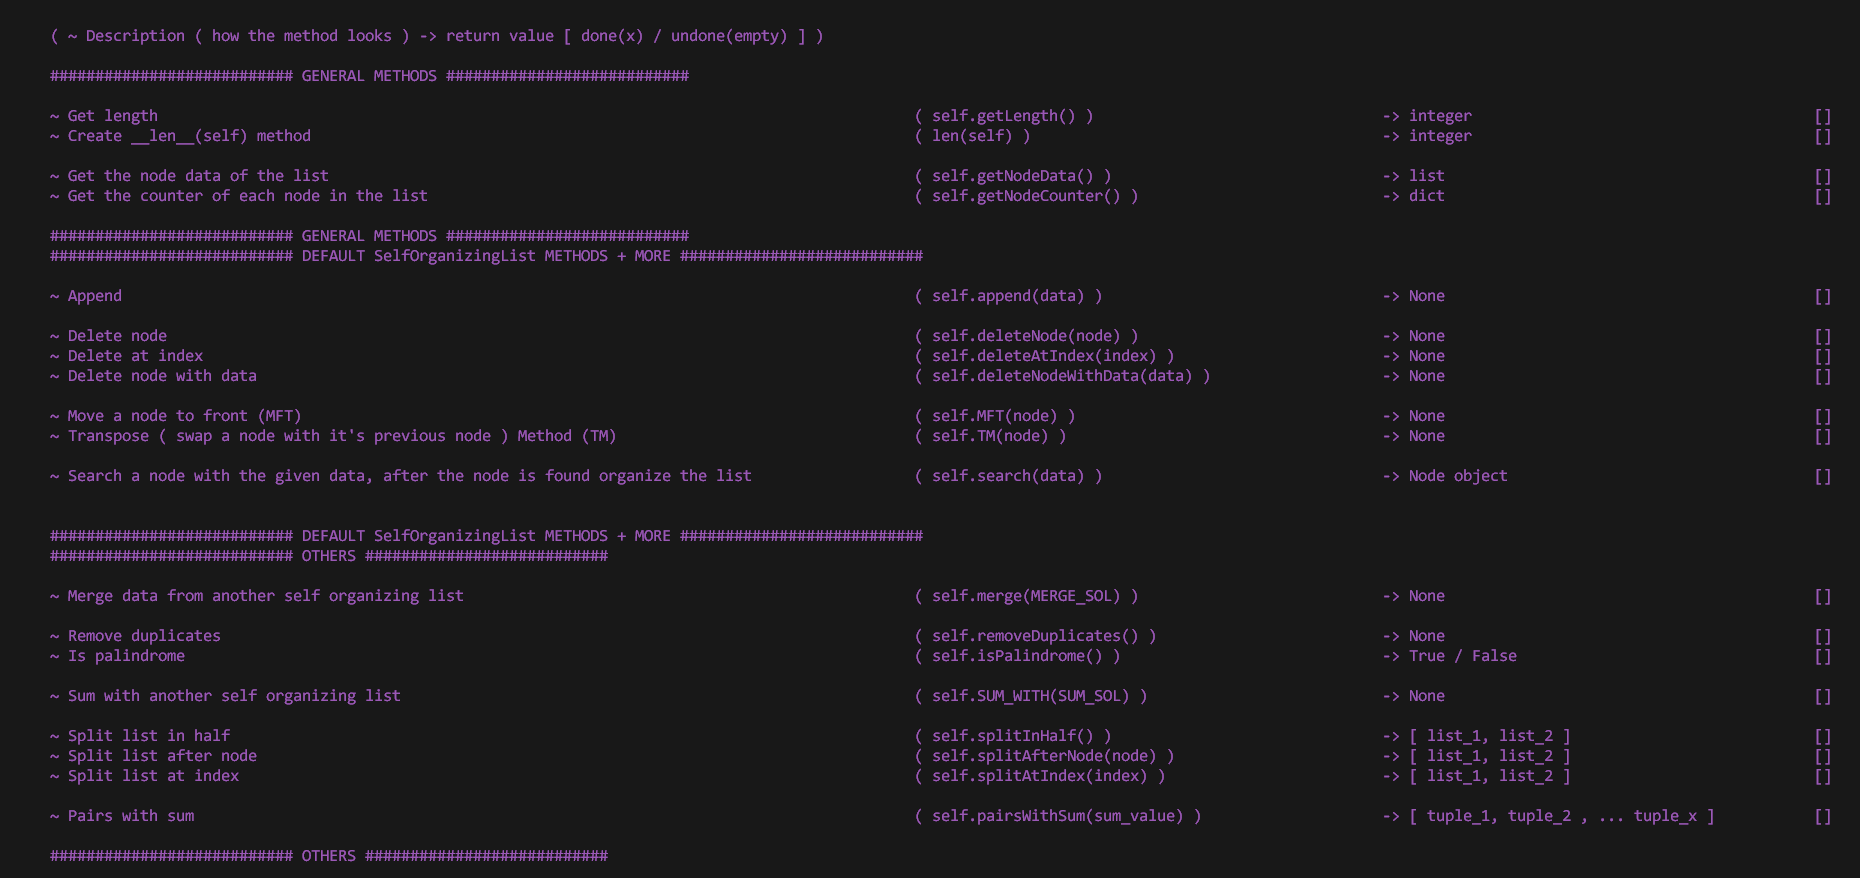
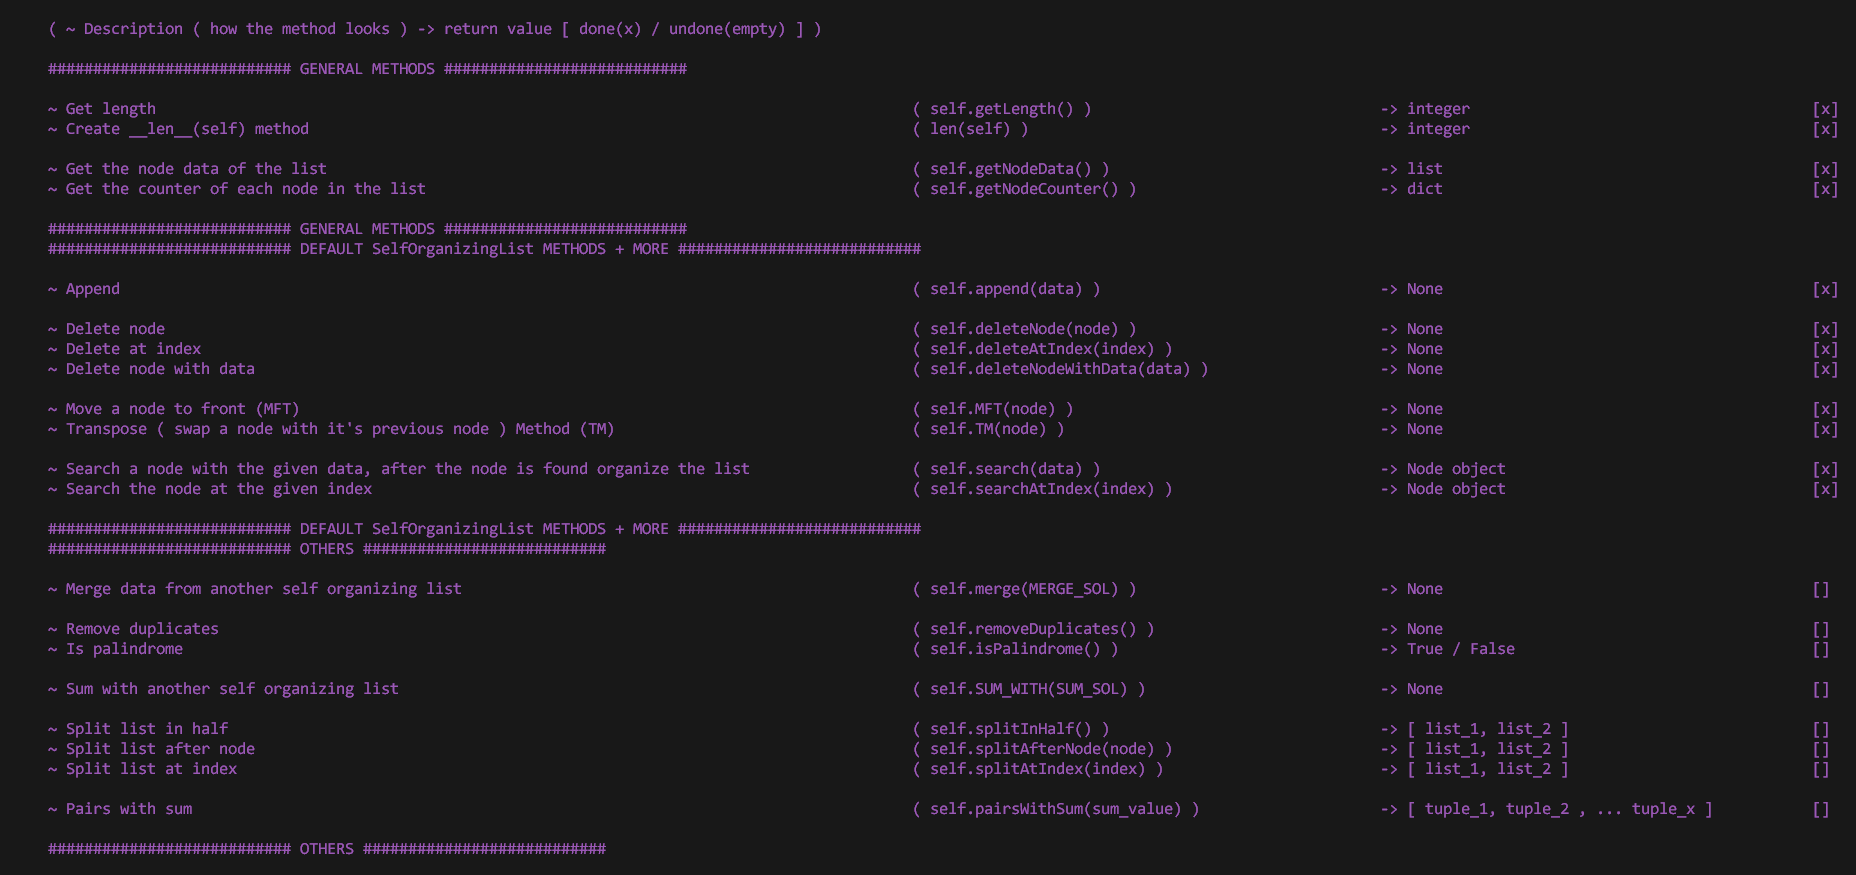
Self Organizing List - Improved - Final Code

diff --git a/Data structures ( code in python )/Linear Data Structures/Self Organizing List ( Python Code )/SelfOrganizingList_Improved_FinalCode.py b/Data structures ( code in python )/Linear Data Structures/Self Organizing List ( Python Code )/SelfOrganizingList_Improved_FinalCode.py
@@ -9,34 +9,39 @@ class Node(object):
 
 class SelfOrganizingList(object):
     def __init__(self):
+        # Keep track of the head & last nodes + the length of the self organizing list throughout the methods
         self.head = None
+        self.last = None
+
+        self.length = 0
+
         '''
 
         ( ~ Description ( how the method looks ) -> return value [ done(x) / undone(empty) ] )
         
         ########################### GENERAL METHODS ###########################
    
-        ~ Get length                                                                                    ( self.getLength() )                                -> integer                                      []
-        ~ Create __len__(self) method                                                                   ( len(self) )                                       -> integer                                      []
+        ~ Get length                                                                                    ( self.getLength() )                                -> integer                                      [x]
+        ~ Create __len__(self) method                                                                   ( len(self) )                                       -> integer                                      [x]
 
-        ~ Get the node data of the list                                                                 ( self.getNodeData() )                              -> list                                         []
-        ~ Get the counter of each node in the list                                                      ( self.getNodeCounter() )                           -> dict                                         []
+        ~ Get the node data of the list                                                                 ( self.getNodeData() )                              -> list                                         [x]
+        ~ Get the counter of each node in the list                                                      ( self.getNodeCounter() )                           -> dict                                         [x]
         
         ########################### GENERAL METHODS ###########################
         ########################### DEFAULT SelfOrganizingList METHODS + MORE ###########################
 
-        ~ Append                                                                                        ( self.append(data) )                               -> None                                         []
+        ~ Append                                                                                        ( self.append(data) )                               -> None                                         [x]
         
-        ~ Delete node                                                                                   ( self.deleteNode(node) )                           -> None                                         []
-        ~ Delete at index                                                                               ( self.deleteAtIndex(index) )                       -> None                                         []
-        ~ Delete node with data                                                                         ( self.deleteNodeWithData(data) )                   -> None                                         []
+        ~ Delete node                                                                                   ( self.deleteNode(node) )                           -> None                                         [x]
+        ~ Delete at index                                                                               ( self.deleteAtIndex(index) )                       -> None                                         [x]
+        ~ Delete node with data                                                                         ( self.deleteNodeWithData(data) )                   -> None                                         [x]
 
-        ~ Move a node to front (MFT)                                                                    ( self.MFT(node) )                                  -> None                                         []
-        ~ Transpose ( swap a node with it's previous node ) Method (TM)                                 ( self.TM(node) )                                   -> None                                         []
+        ~ Move a node to front (MFT)                                                                    ( self.MFT(node) )                                  -> None                                         [x]
+        ~ Transpose ( swap a node with it's previous node ) Method (TM)                                 ( self.TM(node) )                                   -> None                                         [x]
 
-        ~ Search a node with the given data, after the node is found organize the list                  ( self.search(data) )                               -> Node object                                  [] 
+        ~ Search a node with the given data, after the node is found organize the list                  ( self.search(data) )                               -> Node object                                  [x] 
+        ~ Search the node at the given index                                                            ( self.searchAtIndex(index) )                       -> Node object                                  [x]
 
-    
         ########################### DEFAULT SelfOrganizingList METHODS + MORE ###########################
         ########################### OTHERS ###########################
         
@@ -61,25 +66,11 @@ class SelfOrganizingList(object):
 
     def getLength(self):
         ''' Return the length of the self organizing list '''
-        length = 0
-        current = self.head
-        
-        while current:
-            length += 1
-            current = current.next
-
-        return current
+        return self.length
 
     def __len__(self):
         ''' Return the length of the self organizing list '''
-        length = 0
-        current = self.head
-
-        while current:
-            length += 1
-            current = current.next
-
-        return current
+        return self.length
 
     def getNodeData(self):
         ''' Return a list that contains all the node data in the self organizing list '''
@@ -104,3 +95,233 @@ class SelfOrganizingList(object):
         return NODE_COUNTER
 
     ########################### GENERAL METHODS ###########################
+    ########################### DEFAULT SelfOrganizingList METHODS + MORE ###########################
+    
+    def append(self, data):
+        ''' Append a node with the given data to the self organizing list '''
+        if not self.head and not self.last:
+            # If the self organizing list doesn't have a head node and doesn't have a last node as well, create one and create the 'last' node too, since it's the single node in the list, it is the start and also the end of it.
+            self.head = Node(data)
+            self.last = Node(data)
+        else:
+            # Create the append node and set it's properties and the properties of the current node ( which reached the end ) in such a way that the APPEND_NODE is the last node ( .prev & .next )
+            APPEND_NODE = Node(data)
+        
+            if not self.head.next:
+                # If the self.head.next is None then that means that it doesn't have a connection ( .next ) with the last node, so we will have to recreate the last node
+                self.last = Node(data)
+
+                self.last.prev = self.head
+                self.head.next = self.last
+            else:
+                APPEND_NODE.prev = self.last 
+                self.last.next = APPEND_NODE
+
+                self.last = self.last.next
+
+        # Increment the length of the self organizing list
+        self.length += 1
+
+    def deleteNode(self, node):
+        ''' Delete the given node '''
+        # Check the given node
+        if type(node) != Node:
+            raise ValueError("The given node argument must be of type node. You gave {0} which is of type {1}".format(node, type(node)))
+        else:
+            # Check if the given node was the last or head node
+            if node == self.head:
+                # Update the head node by getting the next node in front of it and changing it's .prev pointer
+                NEXT_NODE = self.head.next
+                if NEXT_NODE:
+                    NEXT_NODE.prev = None
+                
+                # Update the head node by setting it to be the node in front of the current head node
+                self.head = NEXT_NODE
+            elif node == self.last:
+                # Update the last node by getting the previous node behind it and changing it's .next pointer
+                PREV_NODE = self.last.prev
+                if PREV_NODE:
+                    PREV_NODE.next = None
+
+                # Update the last node by setting it to be node behind the current last node
+                self.last = PREV_NODE
+            else:
+                # Change the pointers of the nodes in front and behind the node that we have to delete
+                PREV_NODE = node.prev
+                NEXT_NODE = node.next
+                
+                PREV_NODE.next, NEXT_NODE.prev = NEXT_NODE, PREV_NODE
+        
+        # Decrement the length of the self organizing list
+        self.length -= 1
+
+    def deleteAtIndex(self, index):
+        ''' Delete the node at the given index '''
+        # Check the given index
+        if not 0 <= index < self.length:
+            raise IndexError("The given index was either too big or too small ( < 0 ). It must be a number between 0 and {0}. You gave as index : {1}".format(self.length - 1, index))
+
+        # Get the node at the given index and delete it by starting at the head node and iterating to the end and keeping track of the index
+        current = self.head
+        indexTrack = 0
+
+        while indexTrack < index:
+            current = current.next
+            indexTrack += 1
+
+        self.deleteNode(current)
+
+    def deleteNodeWithData(self, data): 
+        ''' Delete the node with the given data '''
+        # Iterate over the entire self organizing list starting with the head until we find the first node that starts with the given data
+        current = self.head
+        
+        while current:
+            if current.data == data:
+                break
+            
+            current = current.next
+
+        # Check if the current node has been found or not
+        if not current:
+            raise ValueError("The given data couldn't be found in the self organizing list.")
+        else:
+            self.deleteNode(current)
+
+    def MFT(self, node):
+        ''' MFT = Move To Front | Move the given node to the front of the self organizing list '''
+        # Check the given node
+        if type(node) != Node:
+            raise ValueError("The given node argument must be of type node. The value that you gave at the node argument was {0} which is of type {1}".format(node, type(node)))
+
+        # Check if the given node is the head node
+        if node == self.head:
+            return
+        
+        # Delete the given node out of his current position
+        PREV_NODE = node.prev
+        NEXT_NODE = node.next
+
+        if NEXT_NODE:
+            NEXT_NODE.prev = PREV_NODE
+        PREV_NODE.next = NEXT_NODE
+
+        # Update the pointers of the given node
+        node.prev = None
+        node.next = self.head
+
+        # Update the head .prev pointer
+        self.head.prev = node
+        
+        # Update the head
+        self.head = node
+
+    def TM(self, node):
+        ''' TM = Transpose Method | Swap the given node with the node behind him '''
+        # Check the given node
+        if type(node) != Node:
+            raise ValueError("The given node must be of type node. The value that you gave at the node argument was {0} which is of type {1}".format(node, type(node)))
+        
+        # Swap 
+        node.prev.data, node.prev.counter, node.data, node.counter = node.data, node.counter, node.prev.data, node.prev.counter
+
+    def search(self, data):
+        ''' Return the first node with the given data '''
+        # Start at the head node and iterate through the entire self organizing list until we get find the first node that will have the given data
+        current = self.head
+        
+        while current:
+            if current.data == data:
+                break
+
+            current = current.next
+
+        # Check if the current node is None. If it is None then that means that we couldn't find any node that will have the given data. Hence we will raise a value error
+        if not current:
+            raise ValueError("The given data couldn't be found in the self organizing list")
+        else:
+            # Increment the counter of the found node
+            current.counter += 1
+
+            # If the counter of the current node is smaller than the counter of the head node, then we can directly move the node to the front of the self organizing list. There is no need to iterate backwards through the list and always check if the nodes that we found have a smaller counter or not than the current node because we already node that the self organizing list is sorted from the biggest 'counter' node to the smallest one, and if the biggest one which is the head node has a smaller 'counter' value than the current node, then it is clear that the current node will have a bigger counter than all the nodes that are in front of the head node. Hence we can simply just move in front of the self organizing list using the self.MFT method ( MFT = Move To Front )
+            if self.head.counter < current.counter:
+                self.MFT(current)
+            else:
+                while current.prev:
+                    if current.prev.counter < current.counter:
+                        self.TM(current)
+                    else:
+                        break
+
+                    current = current.prev
+
+        # Return the found node
+        return current
+    
+    def searchAtIndex(self, index):
+        ''' Return the node at the given index ''' 
+        # Check the given index
+        if not 0 <= index < self.length:
+            raise IndexError("The given index was either too big or too small ( < 0 ). The given node must be a number between 0 and {0}. You gave : {1}".format(self.length - 1, lane))
+        
+        # Start at the head node and keep track of the current node and of the index while iterating through the self organizing list and stop when the indexTrack has reached the given index
+        current = self.head
+        indexTrack = 0
+
+        while indexTrack < index:
+            current = current.next
+            indexTrack += 1
+        
+        # Increment the counter of the found node
+        current.counter += 1
+
+        # Same as at the other search
+        if self.head.counter < current.counter:
+            self.MFT(current)
+        else:
+            while current.prev:
+                if current.prev.counter < current.counter:
+                    self.TM(current)
+                else:
+                    break
+
+                current = current.prev
+
+        # Return the found node
+        return current
+
+    ########################### DEFAULT SelfOrganizingList METHODS + MORE ###########################
+
+x = SelfOrganizingList()
+
+def present():
+    print("----------------------------")
+    print(x.getNodeData())
+    print(x.getNodeCounter())
+    print("-")
+    y = x.last
+    if y:
+        print("LAST NODE -- > {0}".format(y.data))
+    else:
+        print("LAST NODE -- > {0}".format(y))
+    print("Length -- > {0}".format(len(x)))
+    print("----------------------------")
+
+    for i in range(2):
+        print()
+
+present()
+
+for i in range(1, 6):
+    x.append(i)
+
+present()
+
+for i in range(3):
+    x.searchAtIndex(2)
+for i in range(2):
+    x.searchAtIndex(4)
+for i in range(45):
+    x.searchAtIndex(1)
+
+present()
